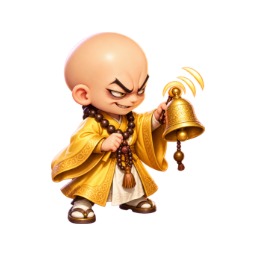
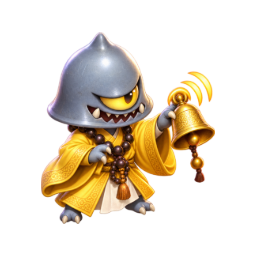
art: redesign bell monk as a one-eyed yokai monster

diff --git a/tests/tools/sheets.js b/tests/tools/sheets.js
@@ -23,7 +23,7 @@ const HINT = {
   ghost: '薄青く半透明のゴースト（足がなくふわふわ浮く）', minotaur: '牛の頭を持つ大きな戦士ミノタウロス（大きな斧を持つ）', dragon: '赤い小型のドラゴン（翼を持ち、口から炎が漏れる）',
   // --- 深層の敵（能力が特徴。絵でも一目で分かるように）
   ninja: '紺色の装束のニンジャ（目だけ出した覆面、手に手裏剣、前かがみで素早そう）', caster: '紫のとんがり帽子とローブのまじゅつ師（杖の先に光る玉、うつろな目）', mimic: '金の縁取りの木の宝箱（ふたの隙間から長い舌と鋭い歯がのぞく）',
-  summoner: '黄色い法衣の小さな坊主（大きな金の鈴を片手に鳴らしている）', charged: 'ごつごつした灰色の大岩（表面に黄色い稲妻が走り、小さな目が二つ）', cannon: '緑がかった鎧の兵士が肩に太い大砲を担いでいる（どっしり立つ）',
+  summoner: '黄色い法衣と数珠をつけた一つ目の妖怪坊主（灰青色の釣鐘形の頭、牙、3本指の爪、大きな金の鈴を片手で鳴らす。人間の肌色の頭や顔にはしない）', charged: 'ごつごつした灰色の大岩（表面に黄色い稲妻が走り、小さな目が二つ）', cannon: '緑がかった鎧の兵士が肩に太い大砲を担いでいる（どっしり立つ）',
   lord: '黒紫のうろこの巨大なドラゴンの主（金の王冠、大きな翼、赤く光る目、威圧感）',
   // --- 手持ち用（主人公が持つ絵）：武器は刃を真上に向けて縦に置く
   woodsword: '木の刀', bronzesword: '青銅の太刀', katana: '細身のカタナ', dotanuki: '分厚い胴田貫（刀）',

diff --git a/fushigi-enemy-c-v1/build.js b/fushigi-enemy-c-v1/build.js
@@ -46,7 +46,7 @@ function removeBackground(c){
  }
  const hashes={};for(const f of fs.readdirSync(path.join(root,'source-art')))hashes[f]=crypto.createHash('sha256').update(fs.readFileSync(path.join(root,'source-art',f))).digest('hex');
  const ref='../fushigi-equipment-v3/assets/hero-base/SE.png';
- fs.writeFileSync(path.join(root,'manifest.json'),JSON.stringify({generator:'OpenAI image_gen',promptFile:'prompts.json',initialPromptFile:'initial-prompt.txt',correctionPromptFile:'enemy-face-prompts.json',styleReference:ref,referenceSha256:crypto.createHash('sha256').update(fs.readFileSync(path.join(root,ref))).digest('hex'),sourceHashes:hashes,frames:records},null,2)+'\n');
+ fs.writeFileSync(path.join(root,'manifest.json'),JSON.stringify({generator:'OpenAI image_gen',promptFile:'prompts.json',initialPromptFile:'initial-prompt.txt',correctionPromptFile:'enemy-face-prompts.json',summonerMonsterPromptFile:'summoner-monster-prompt.json',styleReference:ref,referenceSha256:crypto.createHash('sha256').update(fs.readFileSync(path.join(root,ref))).digest('hex'),sourceHashes:hashes,frames:records},null,2)+'\n');
  const sheet=createCanvas(1024,512),g=sheet.getContext('2d');for(let i=0;i<keys.length;i++){const im=await loadImage(path.join(root,'art',keys[i]+'.png'));g.drawImage(im,i%4*256,Math.floor(i/4)*256);}
  fs.writeFileSync(path.join(root,'enemyC.png'),sheet.toBuffer('image/png'));
  console.log('Exported 7 RGBA base sprites and enemyC sheet; anchor (128,224).');

diff --git a/fushigi-enemy-c-v1/check.py b/fushigi-enemy-c-v1/check.py
@@ -1,4 +1,4 @@
-import json
+import json, os
 from pathlib import Path
 from playwright.sync_api import sync_playwright
 
@@ -8,7 +8,7 @@ with sync_playwright() as p:
     page = browser.new_page(viewport={'width':1120, 'height':1000}, device_scale_factor=1)
     errors=[]
     page.on('pageerror', lambda e: errors.append(str(e)))
-    page.goto('http://127.0.0.1:8011/fushigi-enemy-c-v1/preview.html')
+    page.goto(os.environ.get('FUSHIGI_REVIEW_ORIGIN','http://127.0.0.1:8011')+'/fushigi-enemy-c-v1/preview.html')
     page.wait_for_function('Array.from(document.images).every(i=>i.complete&&i.naturalWidth)')
     page.screenshot(path=str(ROOT/'preview-desktop.png'), full_page=True)
     results={'images':page.locator('img').count(),'errors':errors,'sizes':{}}

diff --git a/docs/HANDOVER.md b/docs/HANDOVER.md
@@ -4,6 +4,8 @@
 
 ## 1. 結論（いまの状態）
 
+- **すず坊主の妖怪化（2026-10-23）**：「坊主はモンスターモチーフ、人でなく」というユーザー指定を反映。人型の頭をやめ、一つ目・灰青色の釣鐘形の頭・牙・爪を持つ妖怪へ再生成。法衣・数珠・金の鈴を維持。`fushigi-enemy-c-v1/art/summoner.png` と一覧・比較を更新、指示と参照・旧原画も保存。PR #38へ追記。本編未反映。
+
 - **enemyCの敵らしい表情への修正（2026-10-23）**：初稿が味方顔というユーザー指摘を受け、人型4種（ニンジャ・まじゅつ師・すず坊主・おおづつ兵）を各初稿参照で描き直し。細い鋭い目・険しい眉・不気味な薄笑いへ。透過基準絵と比較ページを更新。今後の生成用 `sheets.js prompt enemyC` も敵の表情を明記。PR #38へ追記、main公開／本編差し替えは未実施。
 
 - **enemyCの7体の基準絵（2026-10-23、制作ブランチ）**：ユーザー指定の `node tests/tools/sheets.js prompt enemyC` を起点に、ニンジャ・まじゅつ師・ミミック・すず坊主・いかずち岩・おおづつ兵・アビスロードを生成。ラナv3のSE絵を画風参照。`fushigi-enemy-c-v1/art/` に透過256pxの1方向基準絵、同フォルダに原画・全指示・ハッシュ・再現スクリプト・縮小比較ページ。足元(128,224)。今回はデザイン用の基準絵で、8方向・動作・上位色・本編の差し替えは未実施。描画や敵の仕様は変更なし。main公開は未実施。

diff --git a/fushigi-enemy-c-v1/README.md b/fushigi-enemy-c-v1/README.md
@@ -1,5 +1,7 @@
 # enemyC：深層6系統＋アビスロードの基準絵
 
+すず坊主はさらに「人でなくモンスターモチーフ」というユーザー指定で再制作。一つ目・灰青色の釣鐘形の頭・牙・爪を持つ妖怪にし、黄色い法衣・数珠・大きな金の鈴を維持。最新指示と参照は `summoner-monster-prompt.json`。人型修正版は `source-art/summoner-human-superseded.png` に履歴保存。
+
 ## 敵の顔つきへの修正
 
 ユーザーの「各種敵キャラであることを意識して。顔つきが味方キャラになっている」を受け、ニンジャ・まじゅつ師・すず坊主・おおづつ兵を各初稿PNG参照で再生成。細く鋭い目、険しい眉、不気味な顔・薄笑いへ変更。大きな瞳と頬の赤みを抑え、立体感・装備・斜め上からの右向き視点は維持。ミミック・いかずち岩・アビスロードは既存の怪物の顔を維持。各修正の全指示と参照は `enemy-face-prompts.json`、参照PNGと原画は `source-art/`。今後の生成でも味方顔に戻らないよう `sheets.js prompt enemyC` の表情指定も修正。
